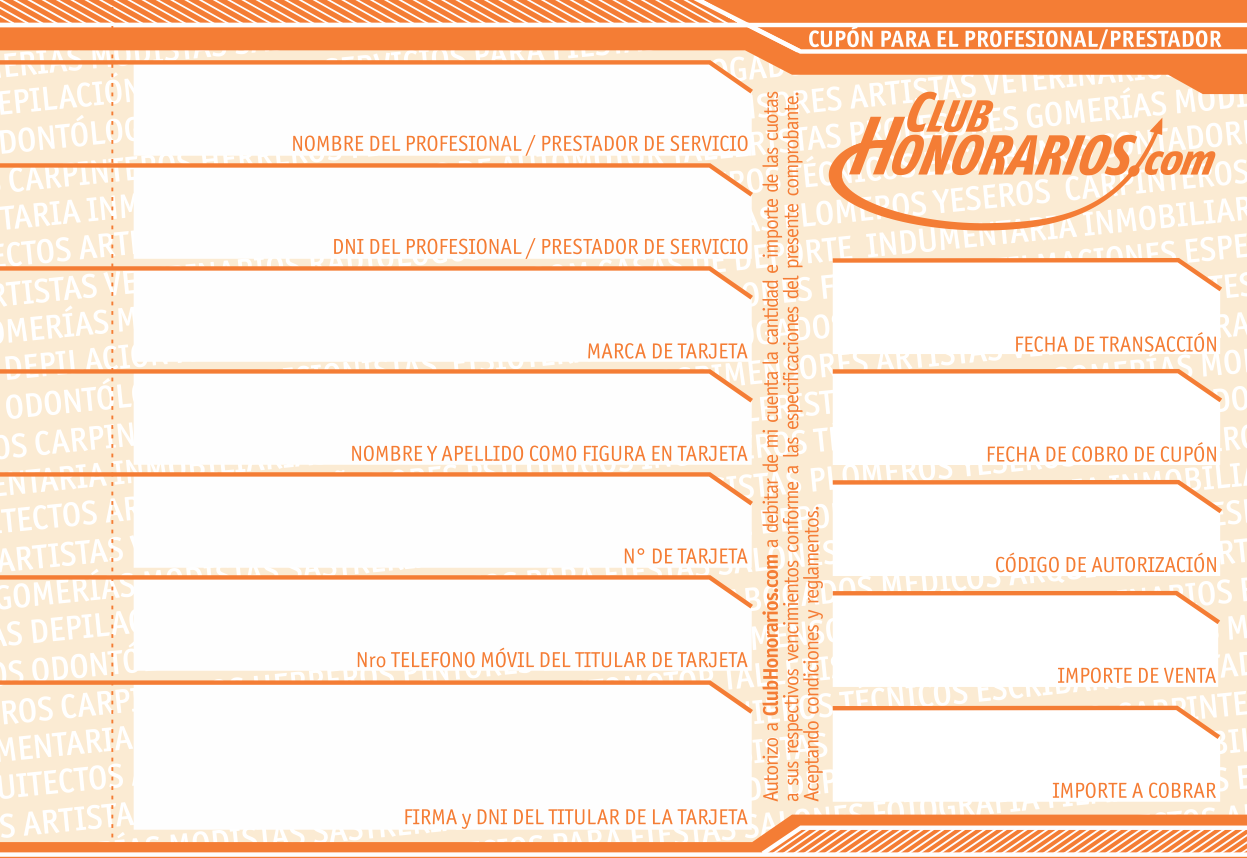
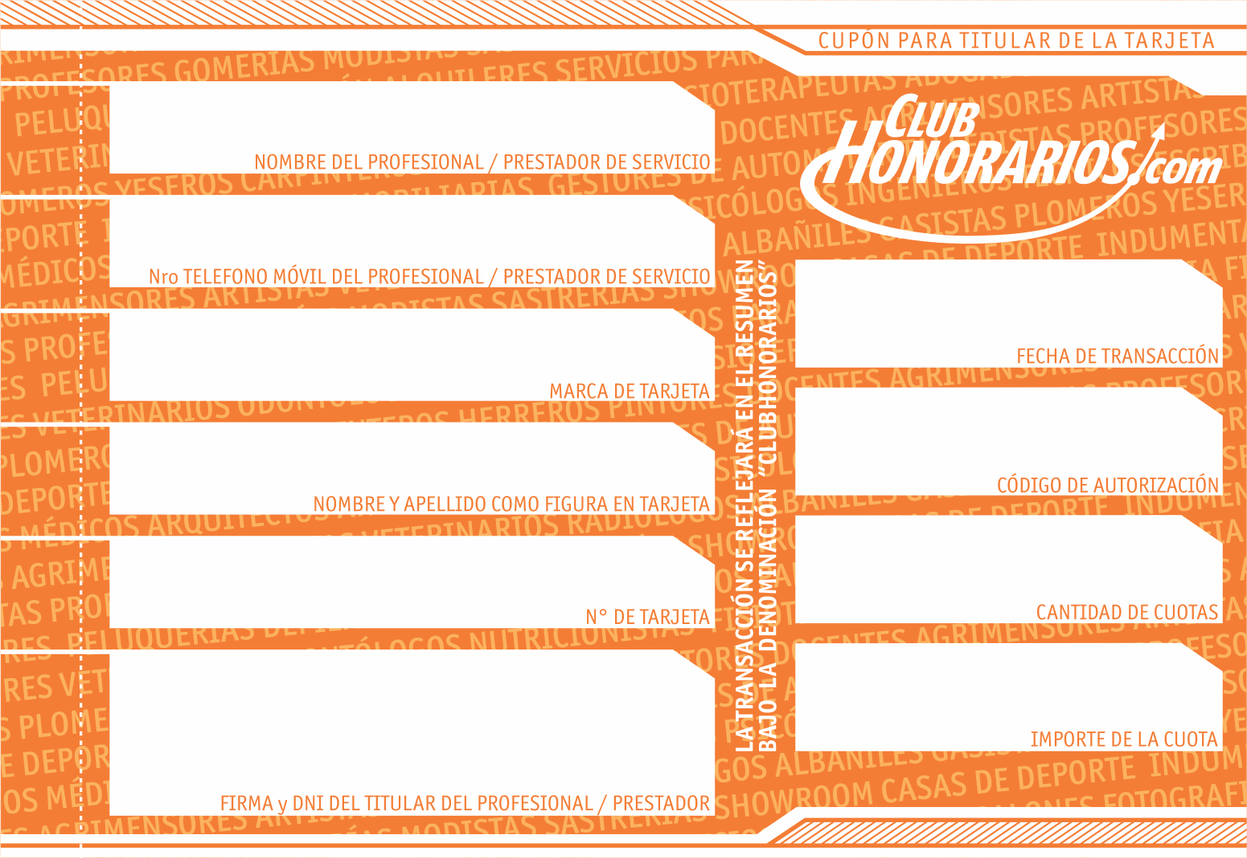
dos cupones listos

diff --git a/clubhonorariospagina/clientes/src/pages/formulario-web-paso2/formulario-web-paso2.ts b/clubhonorariospagina/clientes/src/pages/formulario-web-paso2/formulario-web-paso2.ts
@@ -53,8 +53,8 @@ export class FormularioWebPaso2Page {
   ngAfterViewInit(){
       this.canvasElement = this.canvas.nativeElement;
       this.ctx = this.canvasElement.getContext('2d');
-      this.escribrir('cupon');
-      this.escribrir('cuponAzul');
+      this.escribrirAzul();
+      this.escribirNaranja();
   }
 
   ionViewDidLoad() {
@@ -156,11 +156,11 @@ export class FormularioWebPaso2Page {
 
   }
 
-  escribrir(cuponUrl){
+  escribrirAzul(){
     // Creo el objeto de la imagen 
     let imageObj = new Image();
     imageObj.crossOrigin = "Anonymous";
-    imageObj.src = "assets/"+cuponUrl+".png";
+    imageObj.src = "assets/cuponAzul.png";
     
     // Espero que ser cargue para poder obtener sus propiedades
     imageObj.onload = (()=> {
@@ -193,13 +193,48 @@ export class FormularioWebPaso2Page {
         this.ctx.fillText(this.fechaPago,850,430);
         this.ctx.fillText(details.importeVenta,850,650);
         this.ctx.fillText(details.importeCobrar,850,780);
-        if(cuponUrl === 'cupon'){
-          this.urlImagenCanvas = this.canvasElement.toDataURL();
-          this.imagenEditada = true;
-        }else{
-          this.urlImagenCanvasAzul = this.canvasElement.toDataURL();
-          this.imagenEditadaAzul = true;
-        } 
+        this.urlImagenCanvasAzul = this.canvasElement.toDataURL();
+        this.imagenEditadaAzul = true;
+    })
+  }
+
+  escribirNaranja(){
+    // Creo el objeto de la imagen 
+    let imageObj = new Image();
+    imageObj.crossOrigin = "Anonymous";
+    imageObj.src = "assets/cupon.png";
+    
+    // Espero que ser cargue para poder obtener sus propiedades
+    imageObj.onload = (()=> {
+        this.canvasElement.width = imageObj.width;
+        this.canvasElement.crossOrigin = "Anonymous";
+        this.canvasElement.height = imageObj.height; 
+        this.ctx.font = "bold 48pt BeautifulCreatures"; 
+        this.ctx.clearRect(0,0,this.canvasElement.width,this.canvasElement.height);
+        this.ctx.drawImage(imageObj, 0, 0);
+        this.ctx.fillStyle = "blue";
+        let details = {
+              dniProfesional: this.formulario.dniProfesional.value,
+              apellidoProfesional: this.primeraLetraMayuscula(this.formulario.apellidoProfesional.value),
+              nombreProfesional: this.primeraLetraMayuscula(this.formulario.nombreProfesional.value),
+              apellidoCliente: this.primeraLetraMayuscula(this.formulario.apellidoCliente.value),
+              nombreCliente: this.primeraLetraMayuscula(this.formulario.nombreCliente.value),
+              telefonoCliente: this.formulario.telefonoCliente.value,
+              tarjeta: this.primeraLetraMayuscula(this.tarjeta),
+              importeVenta: this.formulario.importeVenta.value,
+              importeCobrar: this.formulario.importeCobrar.value,
+              importeCarga: this.formulario.importeCarga.value,
+              importeCuota: this.formulario.importeCuota.value,
+              cantidadCuotas: this.formulario.cuotas.value,
+        };
+        this.ctx.fillText(details.apellidoProfesional+' '+details.nombreProfesional,150,140);
+        this.ctx.fillText(details.tarjeta,150,370);
+        this.ctx.fillText(details.apellidoCliente+' '+details.nombreCliente,150,480);
+        this.ctx.fillText(this.fechaTransaccionMysql,850,320);
+        this.ctx.fillText(details.cantidadCuotas,850,590);
+        this.ctx.fillText(details.importeCuota,850,730);
+        this.urlImagenCanvas = this.canvasElement.toDataURL();
+        this.imagenEditada = true;
     })
   }
 

diff --git a/clubhonorariospagina/clientes/src/pages/formulario-web/formulario-web.ts b/clubhonorariospagina/clientes/src/pages/formulario-web/formulario-web.ts
@@ -58,6 +58,23 @@ export class FormularioWebPage {
         importeCarga: ['',Validators.compose([Validators.maxLength(30),Validators.minLength(1), Validators.required])],
         importeCuota: ['',Validators.compose([Validators.maxLength(30),Validators.minLength(1), Validators.required])],
       });
+      // this.formulario = formBuilder.group({
+      //   dniProfesional: ['34159181',Validators.compose([Validators.maxLength(12),Validators.minLength(7),Validators.pattern(/()\d/g),Validators.required])],
+      //   apellidoProfesional: ['Gomez Veliz',Validators.compose([Validators.maxLength(15),Validators.minLength(1),Validators.pattern(/()\w/g),Validators.required])],
+      //   nombreProfesional: ['Kevin Shionen',Validators.compose([Validators.maxLength(15),Validators.minLength(1),Validators.pattern(/()\w/g),Validators.required])],
+      //   mailProfesional: ['masterk63@gmail.com',Validators.email],
+      //   dniCliente: ['34953451',Validators.compose([Validators.maxLength(12),Validators.minLength(7),Validators.pattern(/()\d/g),Validators.required])],
+      //   apellidoCliente: ['Nunez',Validators.compose([Validators.maxLength(15),Validators.minLength(1),Validators.pattern(/()\w/g),Validators.required])],
+      //   nombreCliente: ['Lurdes',Validators.compose([Validators.maxLength(15),Validators.minLength(1),Validators.pattern(/()\w/g),Validators.required])],
+      //   telefonoCliente: ['4352199'],
+      //   mailCliente: ['merylur4@gmial.com'],
+      //   tarjeta: ['VISA',Validators.compose([Validators.required])],
+      //   cuotas: ['6',Validators.compose([Validators.maxLength(2),Validators.minLength(1), Validators.required])],
+      //   importeVenta: ['1000',Validators.compose([Validators.maxLength(30),Validators.minLength(1), Validators.required])],
+      //   importeCobrar: ['950',Validators.compose([Validators.maxLength(30),Validators.minLength(1),Validators.required])],
+      //   importeCarga: ['900',Validators.compose([Validators.maxLength(30),Validators.minLength(1), Validators.required])],
+      //   importeCuota: ['900',Validators.compose([Validators.maxLength(30),Validators.minLength(1), Validators.required])],
+      // });
   }
 
   ionViewDidLoad() {

diff --git a/clubhonorariospagina/clientes/src/pages/formulario-web-paso2/formulario-web-paso2.html b/clubhonorariospagina/clientes/src/pages/formulario-web-paso2/formulario-web-paso2.html
@@ -28,7 +28,7 @@
           <button float-right style="margin-top: 20px;" color="secondary" ion-button type="submit" (click)="botonEnviar()">Enviar</button>
       </div>
       
-      <div class="bloque card-container">
+      <div class="bloque card-container" style="max-width: 1000px;">
         <div class="titulo">
           <span>Datos Previos</span>
           <!-- Este div me ayuda a que se carguen los CSS. pequeño truco -->

diff --git a/clubhonorariospagina/clientes/src/pages/formulario-web-paso2/formulario-web-paso2.scss b/clubhonorariospagina/clientes/src/pages/formulario-web-paso2/formulario-web-paso2.scss
@@ -13,4 +13,10 @@ page-formulario-web-paso2 {
     width:0;
     display:inline-block;
     }
+
+    img{
+        max-width: 50%;
+        border: 0;
+        float: left;
+    }
 }
